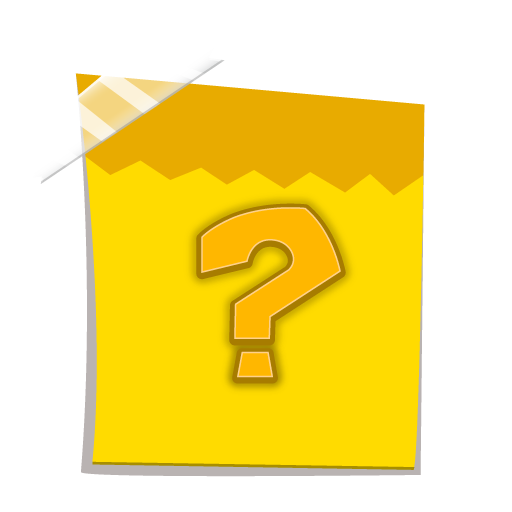
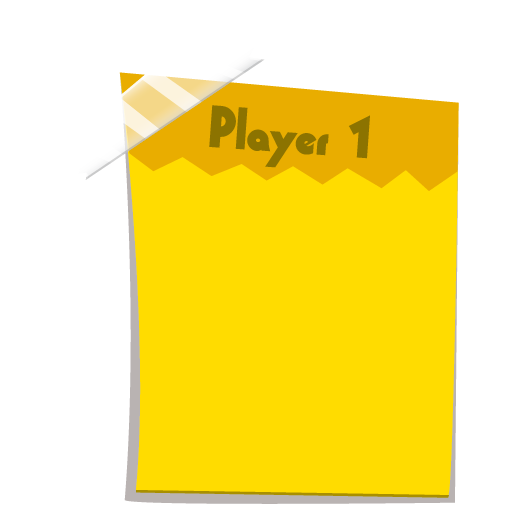
add player life and change user turn animation

Changed region(s): [[0.0938, 0.125, 0.9062, 1.0]]

diff --git a/src/scenes/Level.js b/src/scenes/Level.js
@@ -712,26 +712,14 @@ class Level extends Phaser.Scene {
 		player_1.scaleY = 0.8;
 		container_players.add(player_1);
 
-		// player_1Txt
-		const player_1Txt = this.add.text(472, 316, "", {});
-		player_1Txt.angle = 4;
-		player_1Txt.setOrigin(0.5, 0.5);
-		player_1Txt.tintTopLeft = 8415232;
-		player_1Txt.tintTopRight = 8415232;
-		player_1Txt.tintBottomLeft = 8415232;
-		player_1Txt.tintBottomRight = 8415232;
-		player_1Txt.text = "Player 1";
-		player_1Txt.setStyle({ "fontFamily": "Washington", "fontSize": "50px" });
-		container_players.add(player_1Txt);
-
 		// player_1Time
-		const player_1Time = this.add.text(498, 550, "", {});
+		const player_1Time = this.add.text(493, 544, "", {});
 		player_1Time.setOrigin(0.5, 0.5);
 		player_1Time.tintTopLeft = 12223488;
 		player_1Time.tintTopRight = 12223488;
 		player_1Time.tintBottomLeft = 12223488;
 		player_1Time.tintBottomRight = 12223488;
-		player_1Time.text = "15 Seconds";
+		player_1Time.text = "00:15";
 		player_1Time.setStyle({ "fontFamily": "Washington", "fontSize": "30px" });
 		container_players.add(player_1Time);
 
@@ -763,26 +751,14 @@ class Level extends Phaser.Scene {
 		player_2.scaleY = 0.8;
 		container_players.add(player_2);
 
-		// player_2Txt
-		const player_2Txt = this.add.text(1488, 492, "", {});
-		player_2Txt.angle = -5;
-		player_2Txt.setOrigin(0.5, 0.5);
-		player_2Txt.tintTopLeft = 22912;
-		player_2Txt.tintTopRight = 22912;
-		player_2Txt.tintBottomLeft = 22912;
-		player_2Txt.tintBottomRight = 22912;
-		player_2Txt.text = "Player 2";
-		player_2Txt.setStyle({ "fontFamily": "Washington", "fontSize": "50px" });
-		container_players.add(player_2Txt);
-
 		// player_2Time
-		const player_2Time = this.add.text(1529, 734, "", {});
+		const player_2Time = this.add.text(1508, 712, "", {});
 		player_2Time.setOrigin(0.5, 0.5);
 		player_2Time.tintTopLeft = 32442;
 		player_2Time.tintTopRight = 32442;
 		player_2Time.tintBottomLeft = 32442;
 		player_2Time.tintBottomRight = 32442;
-		player_2Time.text = "15 Seconds";
+		player_2Time.text = "00:15";
 		player_2Time.setStyle({ "fontFamily": "Washington", "fontSize": "30px" });
 		container_players.add(player_2Time);
 
@@ -857,24 +833,68 @@ class Level extends Phaser.Scene {
 		stop.scaleY = 0.7;
 		container_timer.add(stop);
 
-		// timer_1
-		const timer_1 = this.add.image(416, 550, "timer");
-		container_timer.add(timer_1);
+		// container_player_2Life
+		const container_player_2Life = this.add.container(1463, 746);
+		container_timer.add(container_player_2Life);
 
-		// timer_2
-		const timer_2 = this.add.image(1447, 734, "timer");
-		timer_2.tintFill = true;
-		timer_2.tintTopLeft = 32442;
-		timer_2.tintTopRight = 32442;
-		timer_2.tintBottomLeft = 32442;
-		timer_2.tintBottomRight = 32442;
-		container_timer.add(timer_2);
+		// timer_1Player_2
+		const timer_1Player_2 = this.add.image(0, 0, "timer");
+		timer_1Player_2.tintFill = true;
+		timer_1Player_2.tintTopLeft = 32442;
+		timer_1Player_2.tintTopRight = 32442;
+		timer_1Player_2.tintBottomLeft = 32442;
+		timer_1Player_2.tintBottomRight = 32442;
+		container_player_2Life.add(timer_1Player_2);
+
+		// timer_2Player_2
+		const timer_2Player_2 = this.add.image(46, 0, "timer");
+		timer_2Player_2.tintFill = true;
+		timer_2Player_2.tintTopLeft = 32442;
+		timer_2Player_2.tintTopRight = 32442;
+		timer_2Player_2.tintBottomLeft = 32442;
+		timer_2Player_2.tintBottomRight = 32442;
+		container_player_2Life.add(timer_2Player_2);
+
+		// timer_3Player_2
+		const timer_3Player_2 = this.add.image(92, 0, "timer");
+		timer_3Player_2.tintFill = true;
+		timer_3Player_2.tintTopLeft = 32442;
+		timer_3Player_2.tintTopRight = 32442;
+		timer_3Player_2.tintBottomLeft = 32442;
+		timer_3Player_2.tintBottomRight = 32442;
+		container_player_2Life.add(timer_3Player_2);
+
+		// container_player_1Life
+		const container_player_1Life = this.add.container(448, 583);
+		container_timer.add(container_player_1Life);
+
+		// timer_1Player_1
+		const timer_1Player_1 = this.add.image(0, 0, "timer");
+		container_player_1Life.add(timer_1Player_1);
+
+		// timer_2Player_1
+		const timer_2Player_1 = this.add.image(46, 0, "timer");
+		container_player_1Life.add(timer_2Player_1);
+
+		// timer_3Player_1
+		const timer_3Player_1 = this.add.image(92, 0, "timer");
+		container_player_1Life.add(timer_3Player_1);
 
 		// winner
 		const winner = this.add.image(960, -63, "winner");
 		winner.scaleX = 0.8;
 		winner.scaleY = 0.8;
 		body.add(winner);
+
+		// player_1_image
+		const player_1_image = this.add.image(497, 443, "avatar_1");
+		player_1_image.scaleX = 1.3;
+		player_1_image.scaleY = 1.3;
+
+		// player_2_image
+		const player_2_image = this.add.image(1505, 610, "avatar_2");
+		player_2_image.scaleX = 1.3;
+		player_2_image.scaleY = 1.3;
 
 		this.container_boxs = container_boxs;
 		this.container_lines = container_lines;
@@ -891,9 +911,17 @@ class Level extends Phaser.Scene {
 		this.pause = pause;
 		this.restart = restart;
 		this.stop = stop;
-		this.timer_1 = timer_1;
-		this.timer_2 = timer_2;
+		this.timer_1Player_2 = timer_1Player_2;
+		this.timer_2Player_2 = timer_2Player_2;
+		this.timer_3Player_2 = timer_3Player_2;
+		this.container_player_2Life = container_player_2Life;
+		this.timer_1Player_1 = timer_1Player_1;
+		this.timer_2Player_1 = timer_2Player_1;
+		this.timer_3Player_1 = timer_3Player_1;
+		this.container_player_1Life = container_player_1Life;
 		this.winner = winner;
+		this.player_1_image = player_1_image;
+		this.player_2_image = player_2_image;
 
 		this.events.emit("scene-awake");
 	}
@@ -929,11 +957,27 @@ class Level extends Phaser.Scene {
 	/** @type {Phaser.GameObjects.Image} */
 	stop;
 	/** @type {Phaser.GameObjects.Image} */
-	timer_1;
+	timer_1Player_2;
 	/** @type {Phaser.GameObjects.Image} */
-	timer_2;
+	timer_2Player_2;
+	/** @type {Phaser.GameObjects.Image} */
+	timer_3Player_2;
+	/** @type {Phaser.GameObjects.Container} */
+	container_player_2Life;
+	/** @type {Phaser.GameObjects.Image} */
+	timer_1Player_1;
+	/** @type {Phaser.GameObjects.Image} */
+	timer_2Player_1;
+	/** @type {Phaser.GameObjects.Image} */
+	timer_3Player_1;
+	/** @type {Phaser.GameObjects.Container} */
+	container_player_1Life;
 	/** @type {Phaser.GameObjects.Image} */
 	winner;
+	/** @type {Phaser.GameObjects.Image} */
+	player_1_image;
+	/** @type {Phaser.GameObjects.Image} */
+	player_2_image;
 
 	/* START-USER-CODE */
 
@@ -953,6 +997,7 @@ class Level extends Phaser.Scene {
 		this.container_lines.list.forEach((line) => {
 			if (line.texture.key == "SelectedLine") {
 				line.name = 'selected';
+				this.oGameManager.boxs();
 				line.disableInteractive();
 			}
 			else {

diff --git a/src/scripts/GameManager.js b/src/scripts/GameManager.js
@@ -1,6 +1,8 @@
 let aBox = [], aCompletedBox = [];
 let sSignName, sWinnerName, winner_image;
 let time = 15;
+let nLifePlayer_1 = 0;
+let nLifePlayer_2 = 0;
 let winner = false;
 let userTurn = true;
 let nPlayer_1Score = 0;
@@ -170,28 +172,55 @@ class GameManager {
             if (nPlayer_1Score < nPlayer_2Score) {
                 sWinnerName = "avatar_2";
             }
-            winner = true;
-            time = 15;
-            nPlayer_1Score = 0;
-            nPlayer_2Score = 0;
-            clearInterval(this.timerInterval);
-            winner_image = this.oScene.add.image(960, 540, sWinnerName).setScale(5);
-            aCompletedBox.splice(0, aCompletedBox.length);
-            this.oScene.oTweenManager.winnerImageAnimation(winner_image);
+            this.winnerDeclaration(sWinnerName);
         }
+        else {
+
+            if (nLifePlayer_1 == 3) {
+                sWinnerName = "avatar_2";
+                this.winnerDeclaration(sWinnerName);
+            }
+            if (nLifePlayer_2 == 3) {
+                sWinnerName = "avatar_1";
+                this.winnerDeclaration(sWinnerName);
+            }
+
+        }
+    }
+    winnerDeclaration(sWinnerName) {
+        winner = true;
+        time = 15;
+        nLifePlayer_1 = 0;
+        nLifePlayer_2 = 0;
+        nPlayer_1Score = 0;
+        nPlayer_2Score = 0;
+        clearInterval(this.timerInterval);
+        winner_image = this.oScene.add.image(960, 540, sWinnerName).setScale(5);
+        aCompletedBox.splice(0, aCompletedBox.length);
+        this.oScene.oTweenManager.winnerImageAnimation(winner_image);
     }
     setPauseButtonEnabled() {
         this.oScene.restart.setInteractive().on("pointerdown", () => {
-			nPlayer_1Score = 0;
+            this.oScene.container_lines.list.forEach((line) => {
+                line.name = "";
+            });
+            nLifePlayer_1 = 0;
+            nLifePlayer_2 = 0;
+            nPlayer_1Score = 0;
             nPlayer_2Score = 0;
             clearInterval(this.timerInterval);
             time = 15;
             winner = false;
             aCompletedBox.splice(0, aCompletedBox.length);
             this.oScene.scene.restart("Level");
-		});
+        });
         this.oScene.stop.setInteractive().on("pointerdown", () => {
-			nPlayer_1Score = 0;
+            this.oScene.container_lines.list.forEach((line) => {
+                line.name = "";
+            });
+            nLifePlayer_1 = 0;
+            nLifePlayer_2 = 0;
+            nPlayer_1Score = 0;
             nPlayer_2Score = 0;
             clearInterval(this.timerInterval);
             time = 15;
@@ -199,7 +228,7 @@ class GameManager {
             aCompletedBox.splice(0, aCompletedBox.length);
             this.oScene.scene.stop("Level");
             this.oScene.scene.start("Home");
-		});
+        });
         this.oScene.pause.setInteractive().on("pointerdown", () => {
             if (this.oScene.pause.texture.key == "pause") {
                 this.oScene.pause.setTexture("resume");
@@ -223,13 +252,31 @@ class GameManager {
         time = maxTime;
         this.oScene.oTweenManager.userTurnAnimation(userTurn);
         this.timerInterval = setInterval(() => {
-            userTurn ? this.oScene.player_1Time.setText(time + " Seconds") : this.oScene.player_2Time.setText(time + " Seconds");
+            userTurn ? this.oScene.player_1Time.setText("00:" + time) : this.oScene.player_2Time.setText("00:" + time);
             if (time > 0 && winner == false) {
                 time--;
-            } 
-            if(time <= 0 && winner == false) {
-                time = 15;
-                this.turnHandler();
+            }
+            if (time <= 0 && winner == false) {
+                userTurn ? nLifePlayer_1++ : nLifePlayer_2++;
+                switch (userTurn ? nLifePlayer_1 : nLifePlayer_2) {
+                    case 1:
+                        userTurn ? this.oScene.container_player_1Life.list[2].setAlpha(0.5) : this.oScene.container_player_2Life.list[2].setAlpha(0.5);
+                        time = 15;
+                        this.turnHandler();
+                        break;
+                    case 2:
+                        userTurn ? this.oScene.container_player_1Life.list[1].setAlpha(0.5) : this.oScene.container_player_2Life.list[1].setAlpha(0.5);
+                        time = 15;
+                        this.turnHandler();
+                        break;
+                    case 3:
+                        userTurn ? this.oScene.container_player_1Life.list[0].setAlpha(0.5) : this.oScene.container_player_2Life.list[0].setAlpha(0.5);
+                        this.checkForWinner();
+                        break;
+                    default:
+                        time = 15;
+                        this.turnHandler();
+                }
             }
         }, 1000);
     }

diff --git a/src/scripts/TweenManager.js b/src/scripts/TweenManager.js
@@ -60,10 +60,10 @@ class TweenManager {
     }
     userTurnAnimation(userTurn) {
         let target;
-        userTurn ? target = this.oScene.timer_1 : target = this.oScene.timer_2;
+        userTurn ? target = this.oScene.player_1_image : target = this.oScene.player_2_image;
         if (this.userTurnTween) {
-            this.oScene.timer_1.setScale(1, 1);
-            this.oScene.timer_2.setScale(1, 1);
+            this.oScene.player_1_image.setScale(1.3, 1.3);
+            this.oScene.player_2_image.setScale(1.3, 1.3);
             this.userTurnTween.stop();
         }
         this.userTurnTween = this.oScene.add.tween({
